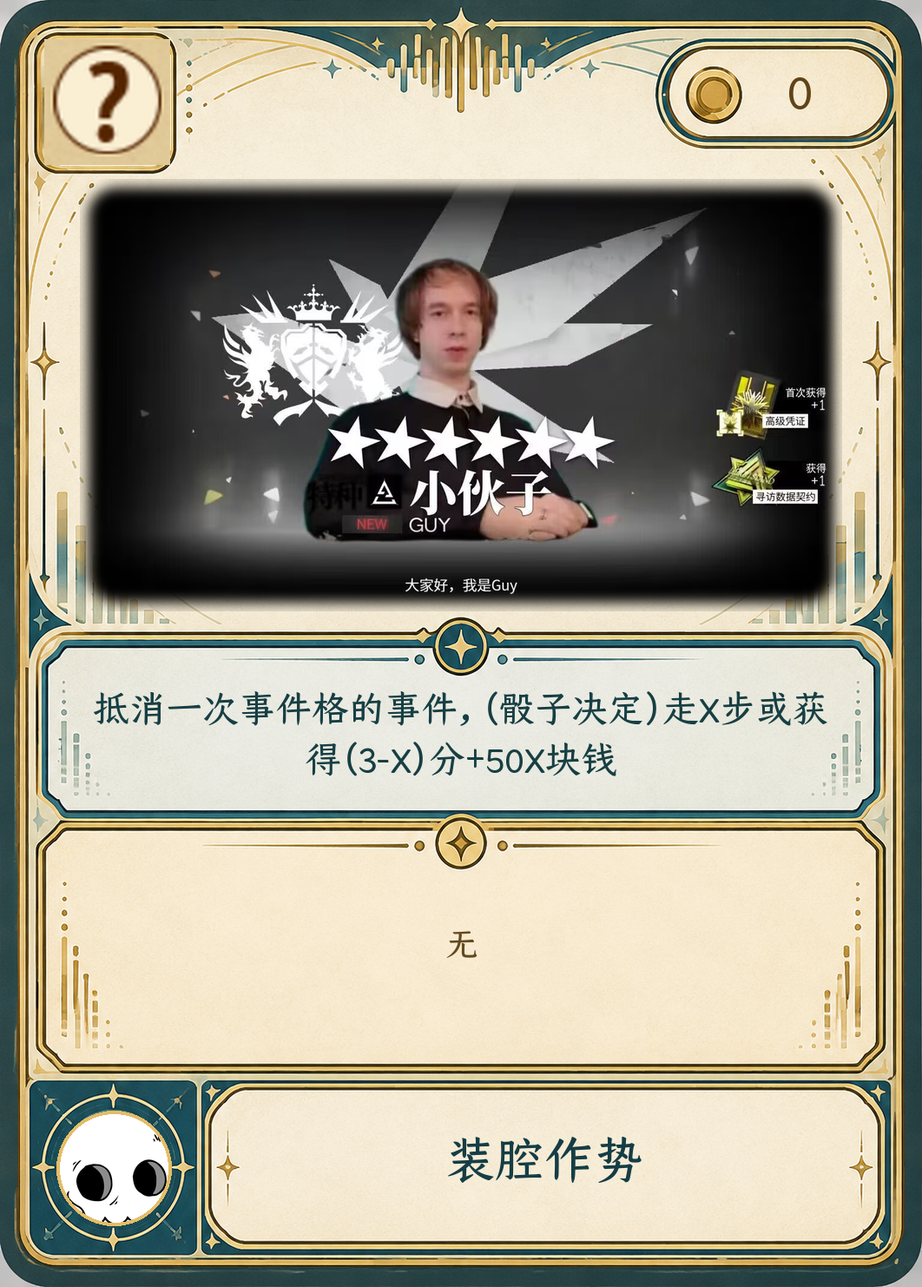
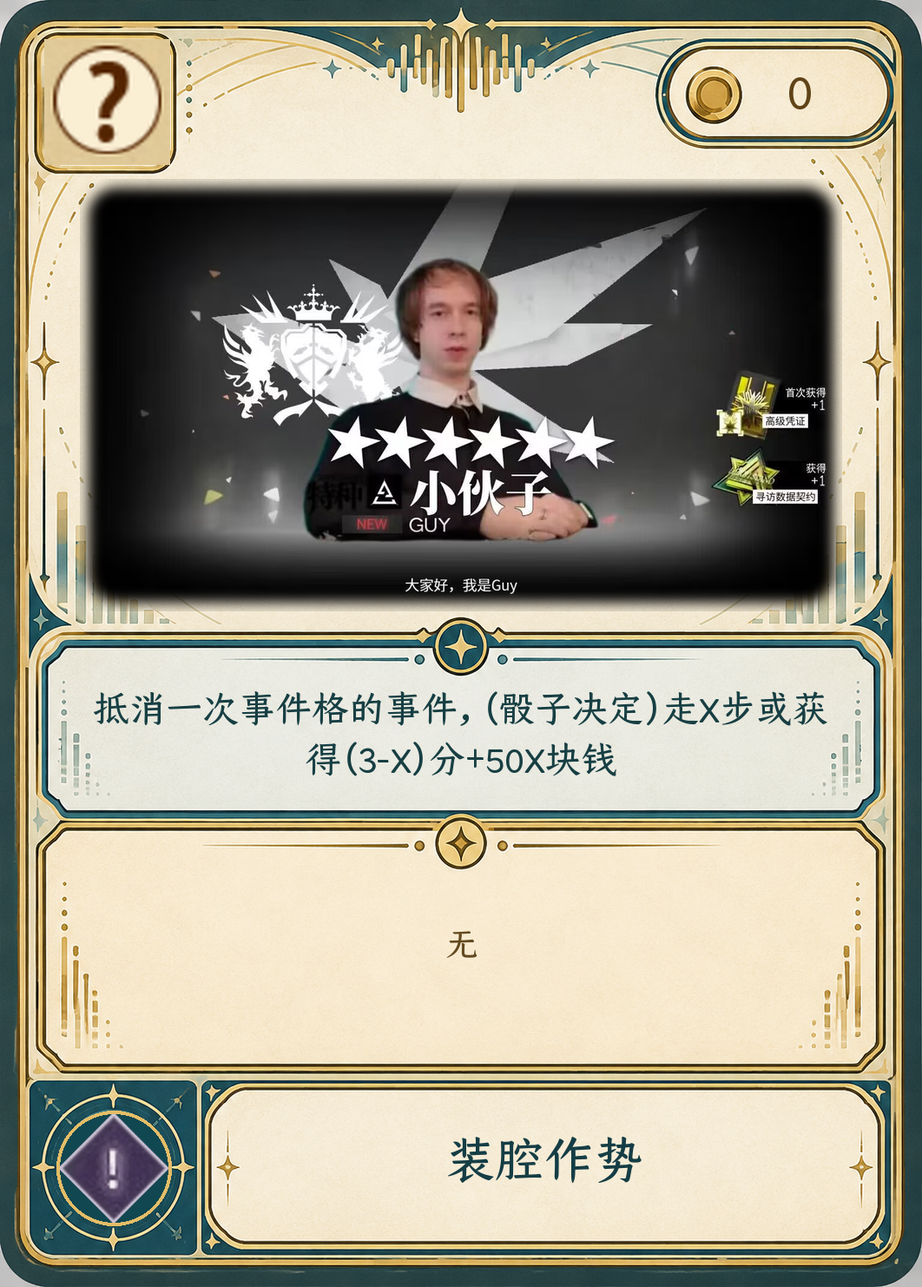
平衡调整

Changed region(s): [[0.0621, 0.8691, 0.1864, 0.9622]]

diff --git a/game-service/game.js b/game-service/game.js
@@ -33,13 +33,13 @@ function hydrate(room) {
     t.pendingMisfortuneCard??=null;t.skipNextTurn??=false;t.extraCardUsesThisRound??=0;
     t.nextBattleWinBonus??=0;t.chooseNextSteps??=false;t.doubleEvent??=false;t.nextIncomingBattleShield??=0;t.ambushPermanent??=false;t.ambushCurrentCharges??=0;
     t.lastResolvedCard??=null;t.lastHouse??=null;
-    t.battleRescue??=0;t.freeSongBattle??=t.freeSongChallenge||0;t.linkedTeamId??=null;t.nextBattleDebuff??=0;t.nextTriggeredBattlePenalty??=0;t.pendingDiscard??=null;t.pendingRedraw??=false;
+    t.battleRescue??=0;t.freeSongBattle??=t.freeSongChallenge||0;t.linkedTeamId??=null;t.nextBattleDebuff??=0;t.nextTriggeredBattlePenalty??=0;t.pendingDiscard??=null;t.pendingRedraw??=false;t.pendingCopy??=false;
     if(t.nextBattleDebuff<0){t.nextTriggeredBattlePenalty+=-t.nextBattleDebuff;t.nextBattleDebuff=0;}
     if(t.awaitingEnd){const current=room.records?.findLast(r=>r.team===t.id&&r.round===t.round);if(current)delete current.defenderUnavailable;}
   }
   room.result??=null;
   room.randomInt = max => crypto.createHash('sha256').update(`${room.seed}:${room.randomCounter++}`).digest().readUInt32BE(0)%max;
-  if((room.catalogVersion??1)<7&&room.teams?.A?.deck){
+  if((room.catalogVersion??1)<8&&room.teams?.A?.deck){
     for(const t of Object.values(room.teams)){
       const existing=new Set([...t.hand,...t.deck,...t.discard].map(card=>card.sourceId||card.id));
       const added=HAND.filter(card=>!existing.has(card.id)).flatMap(card=>Array.from({length:card.quantity},(_,n)=>({...card,id:`${t.id}-${card.id}-${n+1}`,sourceId:card.id})));
@@ -59,7 +59,7 @@ function hydrate(room) {
   for(const pile of ['eventDeck','eventDiscard'])if(Array.isArray(room[pile]))room[pile]=room[pile].map(card=>latestEvents.get(card.id)||card);
   const latestMisfortunes=new Map(MISFORTUNES.map(card=>[card.id,card]));
   for(const pile of ['misfortuneDeck','misfortuneDiscard'])if(Array.isArray(room[pile]))room[pile]=room[pile].map(card=>latestMisfortunes.get(card.id)||card);
-  room.catalogVersion=7;
+  room.catalogVersion=8;
   return room;
 }
 const shuffle = (cards,randomInt) => {
@@ -75,7 +75,7 @@ function newTeam(id,randomInt,initialMoney,initialIncome,start) {
     discard:[], lastArrival:0,pendingRoll:null,eventShield:0,misfortuneShield:0,
     nextBattleWinBonus:0,chooseNextSteps:false,doubleEvent:false,nextIncomingBattleShield:0,ambushPermanent:false,ambushCurrentCharges:0,lastResolvedCard:null,lastHouse:null,
     battleRescue:0,freeSongBattle:0,linkedTeamId:null,nextBattleDebuff:0,nextTriggeredBattlePenalty:0,
-    pendingChallenge:null,pendingTeleport:false,pendingExtraMove:false,pendingTarget:null,pendingDiscard:null,pendingRedraw:false,pendingReroll:null,pendingMisfortuneCard:null,
+    pendingChallenge:null,pendingTeleport:false,pendingExtraMove:false,pendingTarget:null,pendingDiscard:null,pendingRedraw:false,pendingCopy:false,pendingReroll:null,pendingMisfortuneCard:null,
     discardAbility:false,discardedRound:0,houseActionDone:false,debuffs:[],debuffShield:0,nextBattleModifier:0,
     loanActive:false,maxCardUses:1,extraCardUsesThisRound:0,cardUsesThisRound:0,skipNextTurn:false,arcaeaVisitIncome:false,fanshiVisitMoney:0};
 }
@@ -90,7 +90,7 @@ function createRoom({seed=null,testMode=false,initialMoney=200,initialIncome=30,
   if(!Number.isSafeInteger(initialMoney)||initialMoney<0||initialMoney>1_000_000)throw Error('初始金钱必须是 0 到 1000000 的整数');
   if(!Number.isSafeInteger(initialIncome)||initialIncome<0||initialIncome>1_000_000)throw Error('初始收入必须是 0 到 1000000 的整数');
   const room=hydrate({code:'',hostToken:randomId(),seed:seed??randomId(),randomCounter:0,testMode,initialMoney,initialIncome,
-    resetCount:0,teams:{},deadlineAt,result:null,catalogVersion:7,
+    resetCount:0,teams:{},deadlineAt,result:null,catalogVersion:8,
     records:[],battles:[],log:[],effects:[],exTimeEvents:[],diceRolls:[],moneyChanges:[],incomeChanges:[],scoreChanges:[],cardFlows:[],version:0});
   room.starts=shuffle([...HOUSE],room.randomInt);
   for(const [i,id] of [...'ABC'].entries())room.teams[id]=newTeam(id,room.randomInt,initialMoney,initialIncome,room.starts[i]);
@@ -236,13 +236,14 @@ function state(room,who) {
       loanActive:t.loanActive,maxCardUses:t.maxCardUses,extraCardUsesThisRound:t.extraCardUsesThisRound,cardUsesThisRound:t.cardUsesThisRound,skipNextTurn:t.skipNextTurn,
       arcaeaVisitIncome:t.arcaeaVisitIncome,fanshiVisitMoney:t.fanshiVisitMoney,
       canDiscard:t.discardAbility&&t.awaitingEnd&&Object.hasOwn(GRAPH,t.position)&&t.discardedRound!==t.round&&
-        !t.pendingChallenge&&!t.pendingTeleport&&!t.pendingExtraMove&&!t.pendingTarget&&!t.pendingRedraw&&!t.pendingReroll&&!t.pendingMisfortuneCard&&!room.pendingAuction&&!room.pendingMisfortuneChoice&&!t.hand.some(c=>canUse(t,c)),
+        !t.pendingChallenge&&!t.pendingTeleport&&!t.pendingExtraMove&&!t.pendingTarget&&!t.pendingRedraw&&!t.pendingCopy&&!t.pendingReroll&&!t.pendingMisfortuneCard&&!room.pendingAuction&&!room.pendingMisfortuneChoice&&!t.hand.some(c=>canUse(t,c)),
       pendingChallenge:who.role==='host'||id===who.id?t.pendingChallenge?{id:t.pendingChallenge.id,card:t.pendingChallenge.card,freeSong:t.pendingChallenge.freeSong}:null:undefined,
       pendingTeleport:id===who.id||who.role==='host'?t.pendingTeleport:undefined,
       pendingExtraMove:id===who.id||who.role==='host'?t.pendingExtraMove:undefined,
       pendingTarget:id===who.id||who.role==='host'?t.pendingTarget:undefined,
       pendingDiscard:id===who.id||who.role==='host'?t.pendingDiscard:undefined,
       pendingRedraw:id===who.id||who.role==='host'?t.pendingRedraw:undefined,
+      pendingCopy:id===who.id||who.role==='host'?t.pendingCopy:undefined,
       pendingDiscardCards:id===who.id&&t.pendingDiscard?room.teams[t.pendingDiscard].hand.map(c=>({id:c.id,name:c.name,image:c.image})):undefined,
       pendingReroll:id===who.id||who.role==='host'?t.pendingReroll:undefined,
       pendingMisfortuneCard:id===who.id||who.role==='host'?t.pendingMisfortuneCard:undefined,
@@ -330,6 +331,7 @@ function applyCardEffect(room,t,card,record){
     case 'score_optional_discard':changeScore(room,t,card.effectValue,card.name);t.discardAbility=true;break;
     case 'transfer_income':case 'redirect_misfortune':case 'teleport_other_team':t.pendingTarget=card;break;
     case 'extra_use_redraw_one':t.extraCardUsesThisRound++;t.pendingRedraw=true;break;
+    case 'copy_hand_to_deck_top':t.pendingCopy=true;break;
     case 'extra_use_redraw_all':{
       t.extraCardUsesThisRound++;
       const discarded=t.hand.splice(0);t.discard.push(...discarded);
@@ -346,7 +348,11 @@ function applyCardEffect(room,t,card,record){
       refundFinalTax(room,t,record,card.name);t.pendingTarget=card;break;
     case 'income_once_tax_refund':
       changeMoney(room,t,t.income,card.name);refundFinalTax(room,t,record,card.name);break;
-    case 'fanshi_reroll':t.pendingReroll={card,firstRoll:rollD6(room,t,`${card.name}首掷`)};break;
+    case 'fanshi_reroll':
+      t.pendingReroll={card,firstRoll:rollD6(room,t,`${card.name}首掷`)};
+      t.houseActionDone=true;
+      if(record)record.houseActionSkipped=true;
+      break;
     case 'loan':changeMoney(room,t,card.effectValue,card.name);t.loanActive=true;break;
     case 'score_double_use':changeScore(room,t,card.effectValue,card.name);t.maxCardUses=card.effectAux;break;
     case 'score_income':changeScore(room,t,card.effectValue,card.name);changeIncome(room,t,card.effectAux,card.name);break;
@@ -378,7 +384,7 @@ function applyCardEffect(room,t,card,record){
     default:throw Error(`尚不支持卡牌效果 ${card.effect_type}`);
   }
   if(card.effect_type!=='replay_card_house')t.lastResolvedCard=card;
-  if(!t.pendingTeleport&&!t.pendingExtraMove&&!t.pendingTarget&&!t.pendingRedraw&&!t.pendingReroll)finishCardUse(t);
+  if(!t.pendingTeleport&&!t.pendingExtraMove&&!t.pendingTarget&&!t.pendingRedraw&&!t.pendingCopy&&!t.pendingReroll)finishCardUse(t);
 }
 function resolvePlayedCard(room,t,card,record){
   if(card.effect_type==='event_cancel_random'){
@@ -404,7 +410,7 @@ function resolvePlayedCard(room,t,card,record){
 function useCard(room,who,cardId){
   if(who.role!=='team')throw Error('只有队伍可以使用手牌');
   const t=room.teams[who.id];
-  if(!t.awaitingEnd||t.cardActionDone||t.pendingChallenge||t.pendingTeleport||t.pendingExtraMove||t.pendingTarget||t.pendingDiscard||t.pendingRedraw||t.pendingReroll||room.pendingAuction||room.pendingMisfortuneChoice||room.pendingCardReaction)throw Error('当前不在使用手牌阶段');
+  if(!t.awaitingEnd||t.cardActionDone||t.pendingChallenge||t.pendingTeleport||t.pendingExtraMove||t.pendingTarget||t.pendingDiscard||t.pendingRedraw||t.pendingCopy||t.pendingReroll||room.pendingAuction||room.pendingMisfortuneChoice||room.pendingCardReaction)throw Error('当前不在使用手牌阶段');
   const index=t.hand.findIndex(c=>c.id===cardId);if(index<0)throw Error('这张牌不在手牌中');
   const card=t.hand[index];if(!canUse(t,card))throw Error('使用地点不匹配或金钱不足');
   if(card.effect_type.startsWith('challenge_battle_')&&!'ABC'.split('').some(id=>id!==t.id&&
@@ -445,7 +451,7 @@ function skipUse(room,who){
     if(t.cardActionDone)record.cardSkipped=true;
     note(room,`${t.id} 队不使用「厄运火杆」，正常结算厄运`);evaluateEnd(room);return;
   }
-  if(!t.awaitingEnd||t.cardActionDone||t.pendingChallenge||t.pendingTeleport||t.pendingExtraMove||t.pendingTarget||t.pendingDiscard||t.pendingRedraw||t.pendingReroll||room.pendingAuction||room.pendingMisfortuneChoice)throw Error('当前不能跳过手牌');
+  if(!t.awaitingEnd||t.cardActionDone||t.pendingChallenge||t.pendingTeleport||t.pendingExtraMove||t.pendingTarget||t.pendingDiscard||t.pendingRedraw||t.pendingCopy||t.pendingReroll||room.pendingAuction||room.pendingMisfortuneChoice)throw Error('当前不能跳过手牌');
   t.cardActionDone=true;note(room,`${t.id} 队本回合不使用手牌`);
   const record=room.records.findLast(r=>r.team===t.id&&r.round===t.round);if(record)record.cardSkipped=true;
   if(t.pendingEvent){t.pendingEvent=false;record.pendingEvent=false;resolveEvent(room,t,record);evaluateEnd(room);}
@@ -538,6 +544,14 @@ function redrawCard(room,who,cardId){
   if(!t.pendingRedraw||index<0||room.pendingAuction||room.pendingMisfortuneChoice)throw Error('当前不能换牌');
   const {card}=consumeCard(room,t,index);t.pendingRedraw=false;finishCardUse(t);
   note(room,`${t.id} 队使用「six seven」弃掉「${card.name}」并重新抽牌`);
+}
+function copyHandCard(room,who,cardId){
+  if(who.role!=='team')throw Error('只有队伍可以复制手牌');
+  const t=room.teams[who.id],card=t.hand.find(c=>c.id===cardId);
+  if(!t.pendingCopy||!card||room.pendingAuction||room.pendingMisfortuneChoice||room.pendingMisfortuneEffect)throw Error('当前不能复制这张手牌');
+  const copy={...card,id:`${t.id}-${card.sourceId||card.id}-copy-${randomId()}`,sourceId:card.sourceId||card.id};
+  t.deck.unshift(copy);t.pendingCopy=false;finishCardUse(t);
+  note(room,`${t.id} 队使用「双人成行」复制「${card.name}」，放入抽牌堆顶部`);
 }
 function resolveReroll(room,who,again){
   if(who.role!=='team'||typeof again!=='boolean')throw Error('只有队伍可以决定是否重掷');
@@ -958,7 +972,7 @@ function endTurn(room,who){
   const t=room.teams[who.id];
   if(!t.awaitingEnd)throw Error('请先完成本回合移动');
   if(room.pendingAuction||room.pendingMisfortuneChoice)throw Error('请先完成厄运结算');
-  if(!t.cardActionDone||t.pendingChallenge||t.pendingTeleport||t.pendingExtraMove||t.pendingTarget||t.pendingDiscard||t.pendingRedraw||t.pendingReroll||t.pendingMisfortuneCard)throw Error('请先使用手牌或选择不使用');
+  if(!t.cardActionDone||t.pendingChallenge||t.pendingTeleport||t.pendingExtraMove||t.pendingTarget||t.pendingDiscard||t.pendingRedraw||t.pendingCopy||t.pendingReroll||t.pendingMisfortuneCard)throw Error('请先使用手牌或选择不使用');
   const record=room.records.findLast(r=>r.team===t.id&&r.round===t.round);
   if(t.members.length&&record&&!HOUSE.has(record.node)&&!record.defender)throw Error('请先选择一名队员留守');
   const finished=t.round,skipped=t.skipNextTurn;
@@ -975,7 +989,7 @@ function forceEndTurn(room,who,id){
   if(record)record.pendingEvent=false;
   t.round++;t.awaitingEnd=false;t.cardActionDone=false;t.houseActionDone=false;
   t.pendingRoll=null;t.pendingChallenge=null;t.pendingTeleport=false;t.pendingExtraMove=false;
-  t.pendingTarget=null;t.pendingDiscard=null;t.pendingRedraw=false;t.pendingReroll=null;t.pendingMisfortuneCard=null;t.pendingEvent=false;
+  t.pendingTarget=null;t.pendingDiscard=null;t.pendingRedraw=false;t.pendingCopy=false;t.pendingReroll=null;t.pendingMisfortuneCard=null;t.pendingEvent=false;
   t.skipNextTurn=false;t.extraCardUsesThisRound=0;t.cardUsesThisRound=0;
   if(room.pendingMisfortuneChoice?.triggerTeam===id||room.pendingMisfortuneChoice?.target===id)room.pendingMisfortuneChoice=null;
   room.misfortuneEffectQueue=room.misfortuneEffectQueue.filter(effect=>effect.triggerTeam!==id);
@@ -1024,4 +1038,4 @@ function battle(room,who,battleId,winner) {
   activateBattles(room);
   evaluateEnd(room);
 }
-module.exports={GRAPH,POS,HAND,hydrate,createRoom,reset,join,viewer,state,roll,useCard,counterResponse,skipUse,resolveChallenge,chooseCardTarget,discardTargetCard,redrawCard,resolveReroll,teleport,extraMove,discardCard,houseAction,bid,misfortuneTarget,misfortunePick,misfortuneRansom,misfortuneSwapTarget,misfortuneSwap,misfortunePassCards,currentPendingKind,move,reserveMember,endTurn,forceEndTurn,money,score,battle,evaluateEnd,finishByScores,eligibleMembers,canUse};
+module.exports={GRAPH,POS,HAND,hydrate,createRoom,reset,join,viewer,state,roll,useCard,counterResponse,skipUse,resolveChallenge,chooseCardTarget,discardTargetCard,redrawCard,copyHandCard,resolveReroll,teleport,extraMove,discardCard,houseAction,bid,misfortuneTarget,misfortunePick,misfortuneRansom,misfortuneSwapTarget,misfortuneSwap,misfortunePassCards,currentPendingKind,move,reserveMember,endTurn,forceEndTurn,money,score,battle,evaluateEnd,finishByScores,eligibleMembers,canUse};

diff --git a/game-service/public/app.js b/game-service/public/app.js
@@ -336,6 +336,7 @@ function renderTurnControls(){
   const t=snapshot.teams[snapshot.teamId];
   if(t.pendingDiscard){$('turnControls').innerHTML=`<div class="turnState">选择 ${esc(t.pendingDiscard)} 队要丢弃的手牌<div class="defenderChoices">${(t.pendingDiscardCards||[]).map(c=>`<button data-target-card="${esc(c.id)}"><img src="${esc(c.image)}" alt=""><span>${esc(c.name)}</span></button>`).join('')}</div></div>`;document.querySelectorAll('[data-target-card]').forEach(el=>el.onclick=()=>action('discard-target-card',{cardId:el.dataset.targetCard}));return;}
   if(t.pendingRedraw){$('turnControls').innerHTML=`<div class="turnState">six seven：选择一张手牌丢弃并重新抽取<div class="defenderChoices">${t.hand.map(c=>`<button data-redraw-card="${esc(c.id)}"><img src="${esc(c.image)}" alt=""><span>${esc(c.name)}</span></button>`).join('')}</div></div>`;document.querySelectorAll('[data-redraw-card]').forEach(el=>el.onclick=()=>action('redraw-card',{cardId:el.dataset.redrawCard}));return;}
+  if(t.pendingCopy){$('turnControls').innerHTML=`<div class="turnState">双人成行：选择一张手牌复制到抽牌堆顶部<div class="defenderChoices">${t.hand.map(c=>`<button data-copy-card="${esc(c.id)}"><img src="${esc(c.image)}" alt=""><span>${esc(c.name)}</span></button>`).join('')}</div></div>`;document.querySelectorAll('[data-copy-card]').forEach(el=>el.onclick=()=>action('copy-card',{cardId:el.dataset.copyCard}));return;}
   const forced=snapshot.battles.find(b=>b.forced&&b.status==='待选人'&&[b.first,b.second].some(id=>snapshot.records.some(r=>r.id===id&&r.team===snapshot.teamId&&!r.defender)));
   if(forced&&t.eligibleMembers?.length){const record=snapshot.records.find(r=>[forced.first,forced.second].includes(r.id)&&r.team===snapshot.teamId);$('turnControls').innerHTML=`<div class="turnState">第 ${forced.round} 回合战斗：选择出战队员 <button id="chooseDefender">选择队员</button></div>`;$('chooseDefender').onclick=()=>openDefenderPicker(true,record);return;}
   if(snapshot.tutorial?.completed){$('turnControls').innerHTML='<div class="turnState">教程完成！你可以返回桌游列表，或从头再练一次。</div>';return;}
@@ -366,7 +367,7 @@ function renderTurnControls(){
   const blocked=!!animations[snapshot.teamId]||!!snapshot.pendingAuction||!!snapshot.pendingMisfortuneChoice;
   const house=snapshot.house.includes(t.position),effect=t.position==='Arcaea'?`支付 ${t.income+10} 金钱，收入永久 +10`:t.position==='范式起源'?'掷 d6 获得 10/25/50/100/150/200 金钱':'1 积分兑换 200 金钱';
   const canHouse=house&&!t.houseActionDone&&!blocked&&(t.position==='Arcaea'?t.money>=t.income+10:t.position==='Phigros'?t.score>=1:true);
-  $('turnControls').innerHTML=`<div class="turnState">第 ${t.round} 回合结算完成${t.skipNextTurn?' · 下一回合将跳过':''} <div>${house?`<button id="houseAction" ${canHouse?'':'disabled'}>${t.houseActionDone?'建筑效果已使用':esc(t.position+'：'+effect)}</button> `:''}<button id="endTurn" ${blocked?'disabled':''}>结束回合</button></div></div>`;
+  $('turnControls').innerHTML=`<div class="turnState">第 ${t.round} 回合结算完成${t.skipNextTurn?' · 下一回合将跳过':''} <div>${house?`<button id="houseAction" ${canHouse?'':'disabled'}>${t.houseActionDone?record?.houseActionSkipped?'本次建筑效果已跳过':'建筑效果已使用':esc(t.position+'：'+effect)}</button> `:''}<button id="endTurn" ${blocked?'disabled':''}>结束回合</button></div></div>`;
   if($('houseAction'))$('houseAction').onclick=()=>action('house-action',{});
   $('endTurn').onclick=()=>action('end-turn',{});
 }
@@ -374,10 +375,10 @@ function renderCards(){
   const own=snapshot.role==='team'&&!snapshot.tutorial?.completed?snapshot.teams[snapshot.teamId]:null;
   if(!own){selected=null;pendingRoute=null;$('cards').innerHTML='';clearRouteChoices();return;}
   if(selected&&!own.hand.some(c=>c.id===selected.id)){selected=null;pendingRoute=null;}
-  $('cards').innerHTML=own.hand.map(c=>{const playable=own.awaitingEnd&&!own.cardActionDone&&!own.pendingChallenge&&!own.pendingTeleport&&!own.pendingExtraMove&&!own.pendingTarget&&!own.pendingRedraw&&!own.pendingReroll&&!snapshot.pendingAction&&!snapshot.pendingCardReaction&&cardUsable(own,c);return `<div class="card ${selected?.id===c.id?'selected':''} ${playable?'playable':''} ${drawingCardIds.has(c.id)?'drawing':''}" role="button" tabindex="0" data-card="${c.id}" title="${esc(c.name)}：${esc(c.effect)}"><img src="${c.image}" alt="${esc(c.name)}"><span class="cardBadge">${esc(c.name)} · ${c.move===7?'?':c.move} 步</span></div>`;}).join('');
+  $('cards').innerHTML=own.hand.map(c=>{const playable=own.awaitingEnd&&!own.cardActionDone&&!own.pendingChallenge&&!own.pendingTeleport&&!own.pendingExtraMove&&!own.pendingTarget&&!own.pendingRedraw&&!own.pendingCopy&&!own.pendingReroll&&!snapshot.pendingAction&&!snapshot.pendingCardReaction&&cardUsable(own,c);return `<div class="card ${selected?.id===c.id?'selected':''} ${playable?'playable':''} ${drawingCardIds.has(c.id)?'drawing':''}" role="button" tabindex="0" data-card="${c.id}" title="${esc(c.name)}：${esc(c.effect)}"><img src="${c.image}" alt="${esc(c.name)}"><span class="cardBadge">${esc(c.name)} · ${c.move===7?'?':c.move} 步</span></div>`;}).join('');
   document.querySelectorAll('[data-card]').forEach(el=>{const choose=()=>{
     if(moving)return;
-    const mode=snapshot.pendingCardReaction||snapshot.pendingAction?'view':own.pendingExtraMove?'extra':!own.awaitingEnd?'move':!own.cardActionDone&&!own.pendingChallenge&&!own.pendingTeleport&&!own.pendingTarget&&!own.pendingRedraw&&!own.pendingReroll?'use':own.canDiscard?'discard':'view';
+    const mode=snapshot.pendingCardReaction||snapshot.pendingAction||own.pendingCopy?'view':own.pendingExtraMove?'extra':!own.awaitingEnd?'move':!own.cardActionDone&&!own.pendingChallenge&&!own.pendingTeleport&&!own.pendingTarget&&!own.pendingRedraw&&!own.pendingReroll?'use':own.canDiscard?'discard':'view';
     preview={cardId:el.dataset.card,mode};renderPreview();
   };el.onclick=choose;el.onkeydown=e=>{if(e.key==='Enter'||e.key===' '){e.preventDefault();choose();}};});
   if(snapshot.pendingAction||snapshot.pendingCardReaction){pendingRoute=null;clearRouteChoices();return;}
@@ -447,7 +448,7 @@ function renderPreview(){
   const own=snapshot.teams[snapshot.teamId],card=own.hand.find(c=>c.id===preview.cardId);
   if(!card){preview=null;renderPreview();return;}
   const usable=preview.mode!=='use'||cardUsable(own,card);
-  const canPlay=preview.mode!=='view'&&usable&&snapshot.canAct!==false&&!own.pendingTarget&&!own.pendingReroll&&!snapshot.pendingAction;
+  const canPlay=preview.mode!=='view'&&usable&&snapshot.canAct!==false&&!own.pendingTarget&&!own.pendingCopy&&!own.pendingReroll&&!snapshot.pendingAction;
   $('cardPreview').innerHTML=`<div class="previewBody cardOnly"><img src="${esc(card.image)}" alt="${esc(card.name)}"><div class="previewActions"><button id="playPreview" ${canPlay?'':'disabled'}>打出</button><button id="backPreview">取消</button></div></div>`;
   $('cardPreview').classList.add('show');
   $('backPreview').onclick=()=>{preview=null;renderPreview();};

diff --git a/game-service/card-updates.test.js b/game-service/card-updates.test.js
@@ -1,0 +1,76 @@
+const test=require('node:test');
+const assert=require('node:assert/strict');
+const game=require('./game');
+const {HAND}=require('./catalog');
+
+const who={role:'team',id:'A'};
+const host={role:'host'};
+function arrive(cardId,house){
+  const room=game.createRoom({seed:`update-${cardId}-${house}`}),team=room.teams.A;
+  const index=team.hand.findIndex(card=>card.sourceId===cardId);
+  if(index<0){
+    const deckIndex=team.deck.findIndex(card=>card.sourceId===cardId);
+    assert.ok(deckIndex>=0);
+    [team.hand[0],team.deck[deckIndex]]=[team.deck[deckIndex],team.hand[0]];
+  }
+  const card=team.hand.find(item=>item.sourceId===cardId);
+  team.position=house==='Phigros'?'P2':'F3';
+  const mover=team.hand.find(item=>item.id!==card.id&&item.move!==7);
+  assert.ok(mover);mover.move=1;
+  game.move(room,who,mover.id,[house]);
+  return {room,team,card};
+}
+
+test('三张旧牌的使用条件与成品卡保持对应',()=>{
+  assert.equal(HAND.find(card=>card.id==='card1').condition,'游玩Rubbish Sorting IN难度达到full combo');
+  assert.equal(HAND.find(card=>card.id==='card5').condition,'游玩Breach of Faith BYD难度达到980w分');
+  assert.equal(HAND.find(card=>card.id==='card6').condition,'游玩Turning Point MSV难度达到1007500');
+  for(const id of ['card1','card5','card6','card9','card44'])assert.match(HAND.find(card=>card.id===id).image,new RegExp(`${id}\\.png`));
+});
+
+test('魔幻饰品挑战成功后结算卡牌骰子，并跳过本次范式起源建筑效果',()=>{
+  const {room,team,card}=arrive('card9','范式起源');
+  game.useCard(room,who,card.id);
+  assert.equal(team.houseActionDone,false);
+  game.resolveChallenge(room,host,'A',true);
+  assert.equal(team.houseActionDone,true);
+  assert.equal(room.records.at(-1).houseActionSkipped,true);
+  assert.ok(team.pendingReroll);
+  game.resolveReroll(room,who,false);
+  assert.equal(team.pendingReroll,null);
+  assert.throws(()=>game.houseAction(room,who),/不能使用建筑效果/);
+  const failed=arrive('card9','范式起源');
+  game.useCard(failed.room,who,failed.card.id);
+  game.resolveChallenge(failed.room,host,'A',false);
+  assert.equal(failed.team.houseActionDone,false);
+  game.houseAction(failed.room,who);
+  assert.equal(failed.team.houseActionDone,true);
+});
+
+test('双人成行挑战成功后可选择手牌复制到牌堆顶部，下一次抽牌得到副本',()=>{
+  const {room,team,card}=arrive('card44','Phigros');
+  assert.equal(card.move,2);assert.equal(card.cost,200);
+  game.useCard(room,who,card.id);
+  assert.equal(team.money,0);
+  assert.equal(team.pendingCopy,false);
+  game.resolveChallenge(room,host,'A',true);
+  assert.equal(team.pendingCopy,true);
+  const selected=team.hand[0],deckCount=team.deck.length;
+  assert.throws(()=>game.endTurn(room,who),/请先使用手牌/);
+  assert.throws(()=>game.copyHandCard(room,who,'missing'),/不能复制/);
+  game.copyHandCard(room,who,selected.id);
+  const duplicate=team.deck[0];
+  assert.equal(team.deck.length,deckCount+1);
+  assert.equal(duplicate.sourceId,selected.sourceId);
+  assert.notEqual(duplicate.id,selected.id);
+  assert.equal(team.pendingCopy,false);
+  game.endTurn(room,who);
+  const mover=team.hand.find(item=>item.id!==selected.id&&item.move!==7);
+  assert.ok(mover);mover.move=1;
+  game.move(room,who,mover.id,['P1']);
+  assert.ok(team.hand.some(item=>item.id===duplicate.id));
+  const failed=arrive('card44','Phigros');
+  game.useCard(failed.room,who,failed.card.id);
+  game.resolveChallenge(failed.room,host,'A',false);
+  assert.equal(failed.team.pendingCopy,false);
+});

diff --git a/game-service/new-cards.test.js b/game-service/new-cards.test.js
@@ -25,8 +25,8 @@ function arrive(sourceId,house,initialMoney=1000){
 }
 
 test('新卡牌和卡面完整入库',()=>{
-  assert.equal(HAND.length,43);
-  for(let n=17;n<=43;n++){
+  assert.equal(HAND.length,44);
+  for(let n=17;n<=44;n++){
     const card=HAND.find(row=>row.id===`card${n}`);
     assert.ok(card?.name);
     assert.equal(card.image,`/game-assets/cards/output/card${n}.png${[17,18,22,35].includes(n)?'?v=rules-20261125':''}`);
@@ -253,11 +253,11 @@ test('旧房间加载时补入新牌且不会重复添加',()=>{
   room.eventDeck=room.eventDeck.filter(card=>Number(card.id.slice(5))<=6);
   room.misfortuneDeck=room.misfortuneDeck.filter(card=>Number(card.id.slice(3))<=5);
   game.hydrate(room);
-  for(const team of Object.values(room.teams))assert.equal(team.hand.length+team.deck.length+team.discard.length,43);
+  for(const team of Object.values(room.teams))assert.equal(team.hand.length+team.deck.length+team.discard.length,44);
   assert.equal(room.eventDeck.length+room.eventDiscard.length,11);
   assert.equal(room.misfortuneDeck.length+room.misfortuneDiscard.length,14);
   game.hydrate(room);
-  assert.equal(room.teams.A.hand.length+room.teams.A.deck.length,43);
+  assert.equal(room.teams.A.hand.length+room.teams.A.deck.length,44);
 });
 
 test('已有房间的卡牌配置随新版目录更新',()=>{

diff --git a/game-service/game.test.js b/game-service/game.test.js
@@ -458,7 +458,7 @@ test('经过与停留收入税格按规则结算，金钱不会低于零',()=>{
   assert.equal(team.money,0);assert.equal(taxed.moneyDelta,0);
 });
 
-test('四十三张成品手牌独立抽弃洗牌，数量始终守恒',()=>{
+test('四十四张成品手牌独立抽弃洗牌，数量始终守恒',()=>{
   const room=g.createRoom();const token=g.join(room,'A');g.join(room,'B');const who=g.viewer(room,token);
   const bBefore=JSON.stringify(room.teams.B);
   for(let i=0;i<39;i++){
@@ -467,9 +467,9 @@ test('四十三张成品手牌独立抽弃洗牌，数量始终守恒',()=>{
     g.move(room,who,card.id,['R2']);
     finishOptionalTurn(room,who);
     assert.equal(team.hand.length,6);
-    assert.equal(team.hand.length+team.deck.length+team.discard.length,43);
+    assert.equal(team.hand.length+team.deck.length+team.discard.length,44);
   }
-  assert.equal(room.teams.A.deck.length+room.teams.A.discard.length,37);
+  assert.equal(room.teams.A.deck.length+room.teams.A.discard.length,38);
   assert.equal(JSON.stringify(room.teams.B),bBefore);
   assert.equal(room.records.length,39);
   assert.equal(room.records[0].from,'R1');

diff --git a/game-service/catalog.js b/game-service/catalog.js
@@ -33,7 +33,7 @@ function load(name,kind){
     const move=kind==='hand'?Number(row.move):undefined,quantity=Number(row.quantity||1),effectValue=Number(row.effect_value||0),effectAux=Number(row.effect_aux||0);
     if(kind==='hand'&&(!Number.isInteger(move)||move<1||move>7))throw Error(`${name}: 移动点数无效 ${row.id}`);
     if(!Number.isInteger(quantity)||quantity<1||quantity>50||!Number.isFinite(effectValue)||!Number.isFinite(effectAux))throw Error(`${name}: 数值无效 ${row.id}`);
-    const imageVersion=['event2','event6','card17','card18','card22','card35'].includes(row.id)?'?v=rules-20261125':row.id==='card7'?'?v=card7-rule-2':'';
+    const imageVersion=['event2','event6','card17','card18','card22','card35'].includes(row.id)?'?v=rules-20261125':['card1','card5','card6','card9'].includes(row.id)?'?v=rules-20261125b':row.id==='card7'?'?v=card7-event-icon':row.id==='event8'?'?v=event8-random-20261125':'';
     return {...row,move,cost:kind==='hand'?Number(row.cost):undefined,
       effectValue,effectAux,quantity,image:`/game-assets/cards/output/${row.id}.png${imageVersion}`};
   });

diff --git a/game-service/bot.js b/game-service/bot.js
@@ -110,6 +110,7 @@ function choose(room, seat, strategy, humanSeats) {
     return target?.hand.length ? act('discard-target-card', { cardId: target.hand[0].id }) : null;
   }
   if (team.pendingRedraw) return act('redraw-card', { cardId: [...team.hand].sort((a,b)=>cardValue(a,strategy)-cardValue(b,strategy))[0].id });
+  if (team.pendingCopy) return act('copy-card', { cardId: [...team.hand].sort((a,b)=>cardValue(b,strategy)-cardValue(a,strategy))[0].id });
   const forced=room.battles.find(b=>b.forced&&b.status==='待选人'&&[b.first,b.second].some(id=>room.records.some(r=>r.id===id&&r.team===seat&&!r.defender)));
   if(forced&&team.members.length){const record=room.records.find(r=>[forced.first,forced.second].includes(r.id)&&r.team===seat);const member=game.eligibleMembers(room,team,record.round)[0];if(member)return act('reserve-member',{memberId:member.id});}
   if (team.pendingTarget) {

diff --git a/game-service/server.js b/game-service/server.js
@@ -108,6 +108,7 @@ const operations={roll:(r,w,b)=>game.roll(r,w,b.cardId,b.value),
   'skip-use':(r,w)=>game.skipUse(r,w),
   'discard-target-card':(r,w,b)=>game.discardTargetCard(r,w,b.cardId),
   'redraw-card':(r,w,b)=>game.redrawCard(r,w,b.cardId),
+  'copy-card':(r,w,b)=>game.copyHandCard(r,w,b.cardId),
   'resolve-challenge':(r,w,b)=>game.resolveChallenge(r,w,b.team,b.success),
   'card-target':(r,w,b)=>game.chooseCardTarget(r,w,b.target),
   'card-reroll':(r,w,b)=>game.resolveReroll(r,w,b.again),
